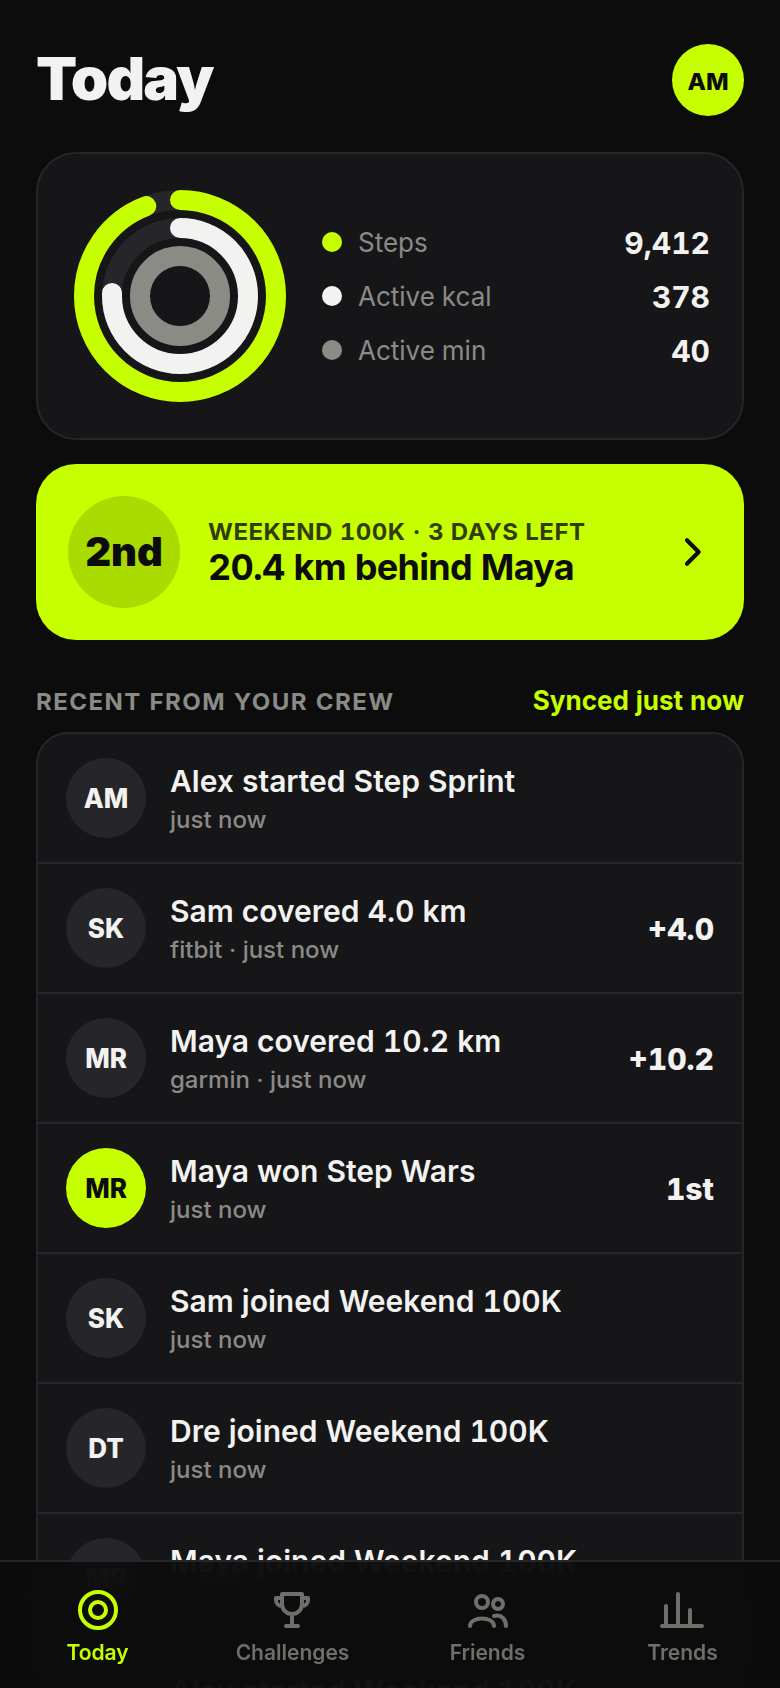
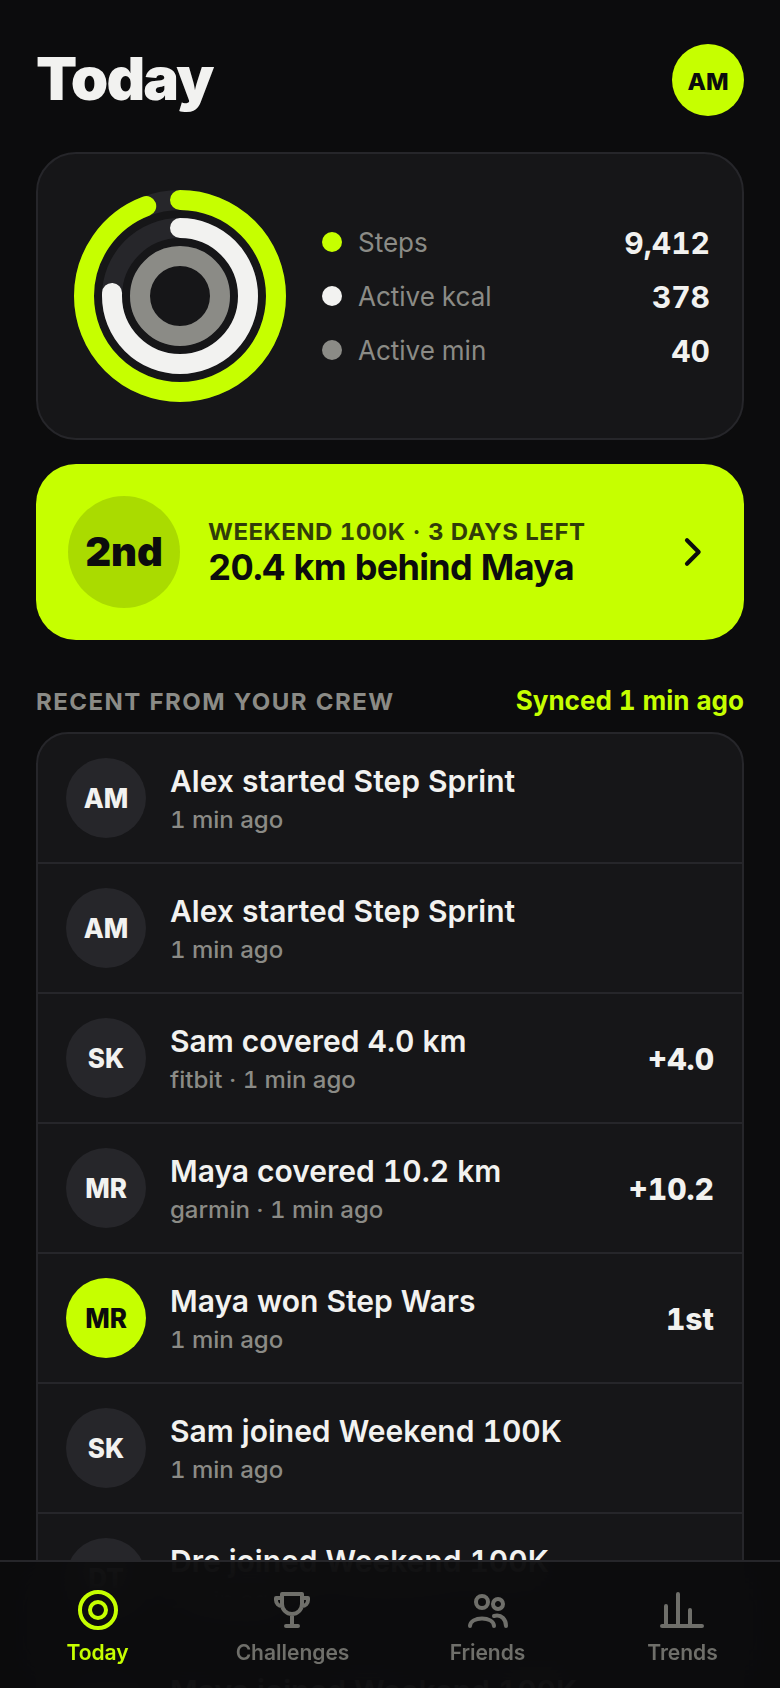
Garmin: disconnecting when already disconnected succeeds; clearer fallback message; screenshots
Claude-Session: https://claude.ai/code/session_01NhFKAYLh6nGLrf9oSpdhBj

diff --git a/apps/api/src/routes/garmin.ts b/apps/api/src/routes/garmin.ts
@@ -6,7 +6,7 @@ import {
   type GarminLoginResult,
   type GarminStatus,
 } from '@gauntlet/shared';
-import { describeGarminError } from '@gauntlet/sparky';
+import { describeGarminError, SparkyError } from '@gauntlet/sparky';
 import type { FastifyInstance } from 'fastify';
 import { requireUser } from '../auth.js';
 import type { AppContext } from '../context.js';
@@ -104,6 +104,8 @@ export function garminRoutes(app: FastifyInstance, ctx: AppContext) {
     try {
       await ctx.sparky.garminUnlink(await tokenFor(req.userId));
     } catch (err) {
+      // Already disconnected (say, from SparkyFitness itself) is the outcome they wanted.
+      if (err instanceof SparkyError && err.status === 400) return { ok: true };
       return fail(err);
     }
     return { ok: true };

diff --git a/apps/api/test/garmin.test.ts b/apps/api/test/garmin.test.ts
@@ -133,6 +133,10 @@ describe('Garmin Connect through the app', () => {
     expect(down.json()).toMatchObject({ code: 'garmin_unreachable' });
   });
 
+  it('treats disconnecting an unlinked account as done', async () => {
+    expect((await call('POST', '/api/garmin/disconnect')).json()).toEqual({ ok: true });
+  });
+
   it('never stores or echoes the Garmin password', async () => {
     const res = await call('POST', '/api/garmin/login', {
       email: 'runner@garmin.test',

diff --git a/packages/sparky/src/garmin.ts b/packages/sparky/src/garmin.ts
@@ -66,7 +66,7 @@ export function describeGarminError(err: unknown): GarminProblem | null {
     };
   return {
     code: 'garmin_error',
-    message: `Garmin sign-in failed: ${detail.slice(0, 200)}`,
+    message: `Garmin said: ${detail.slice(0, 200)}`,
     status: 502,
   };
 }
